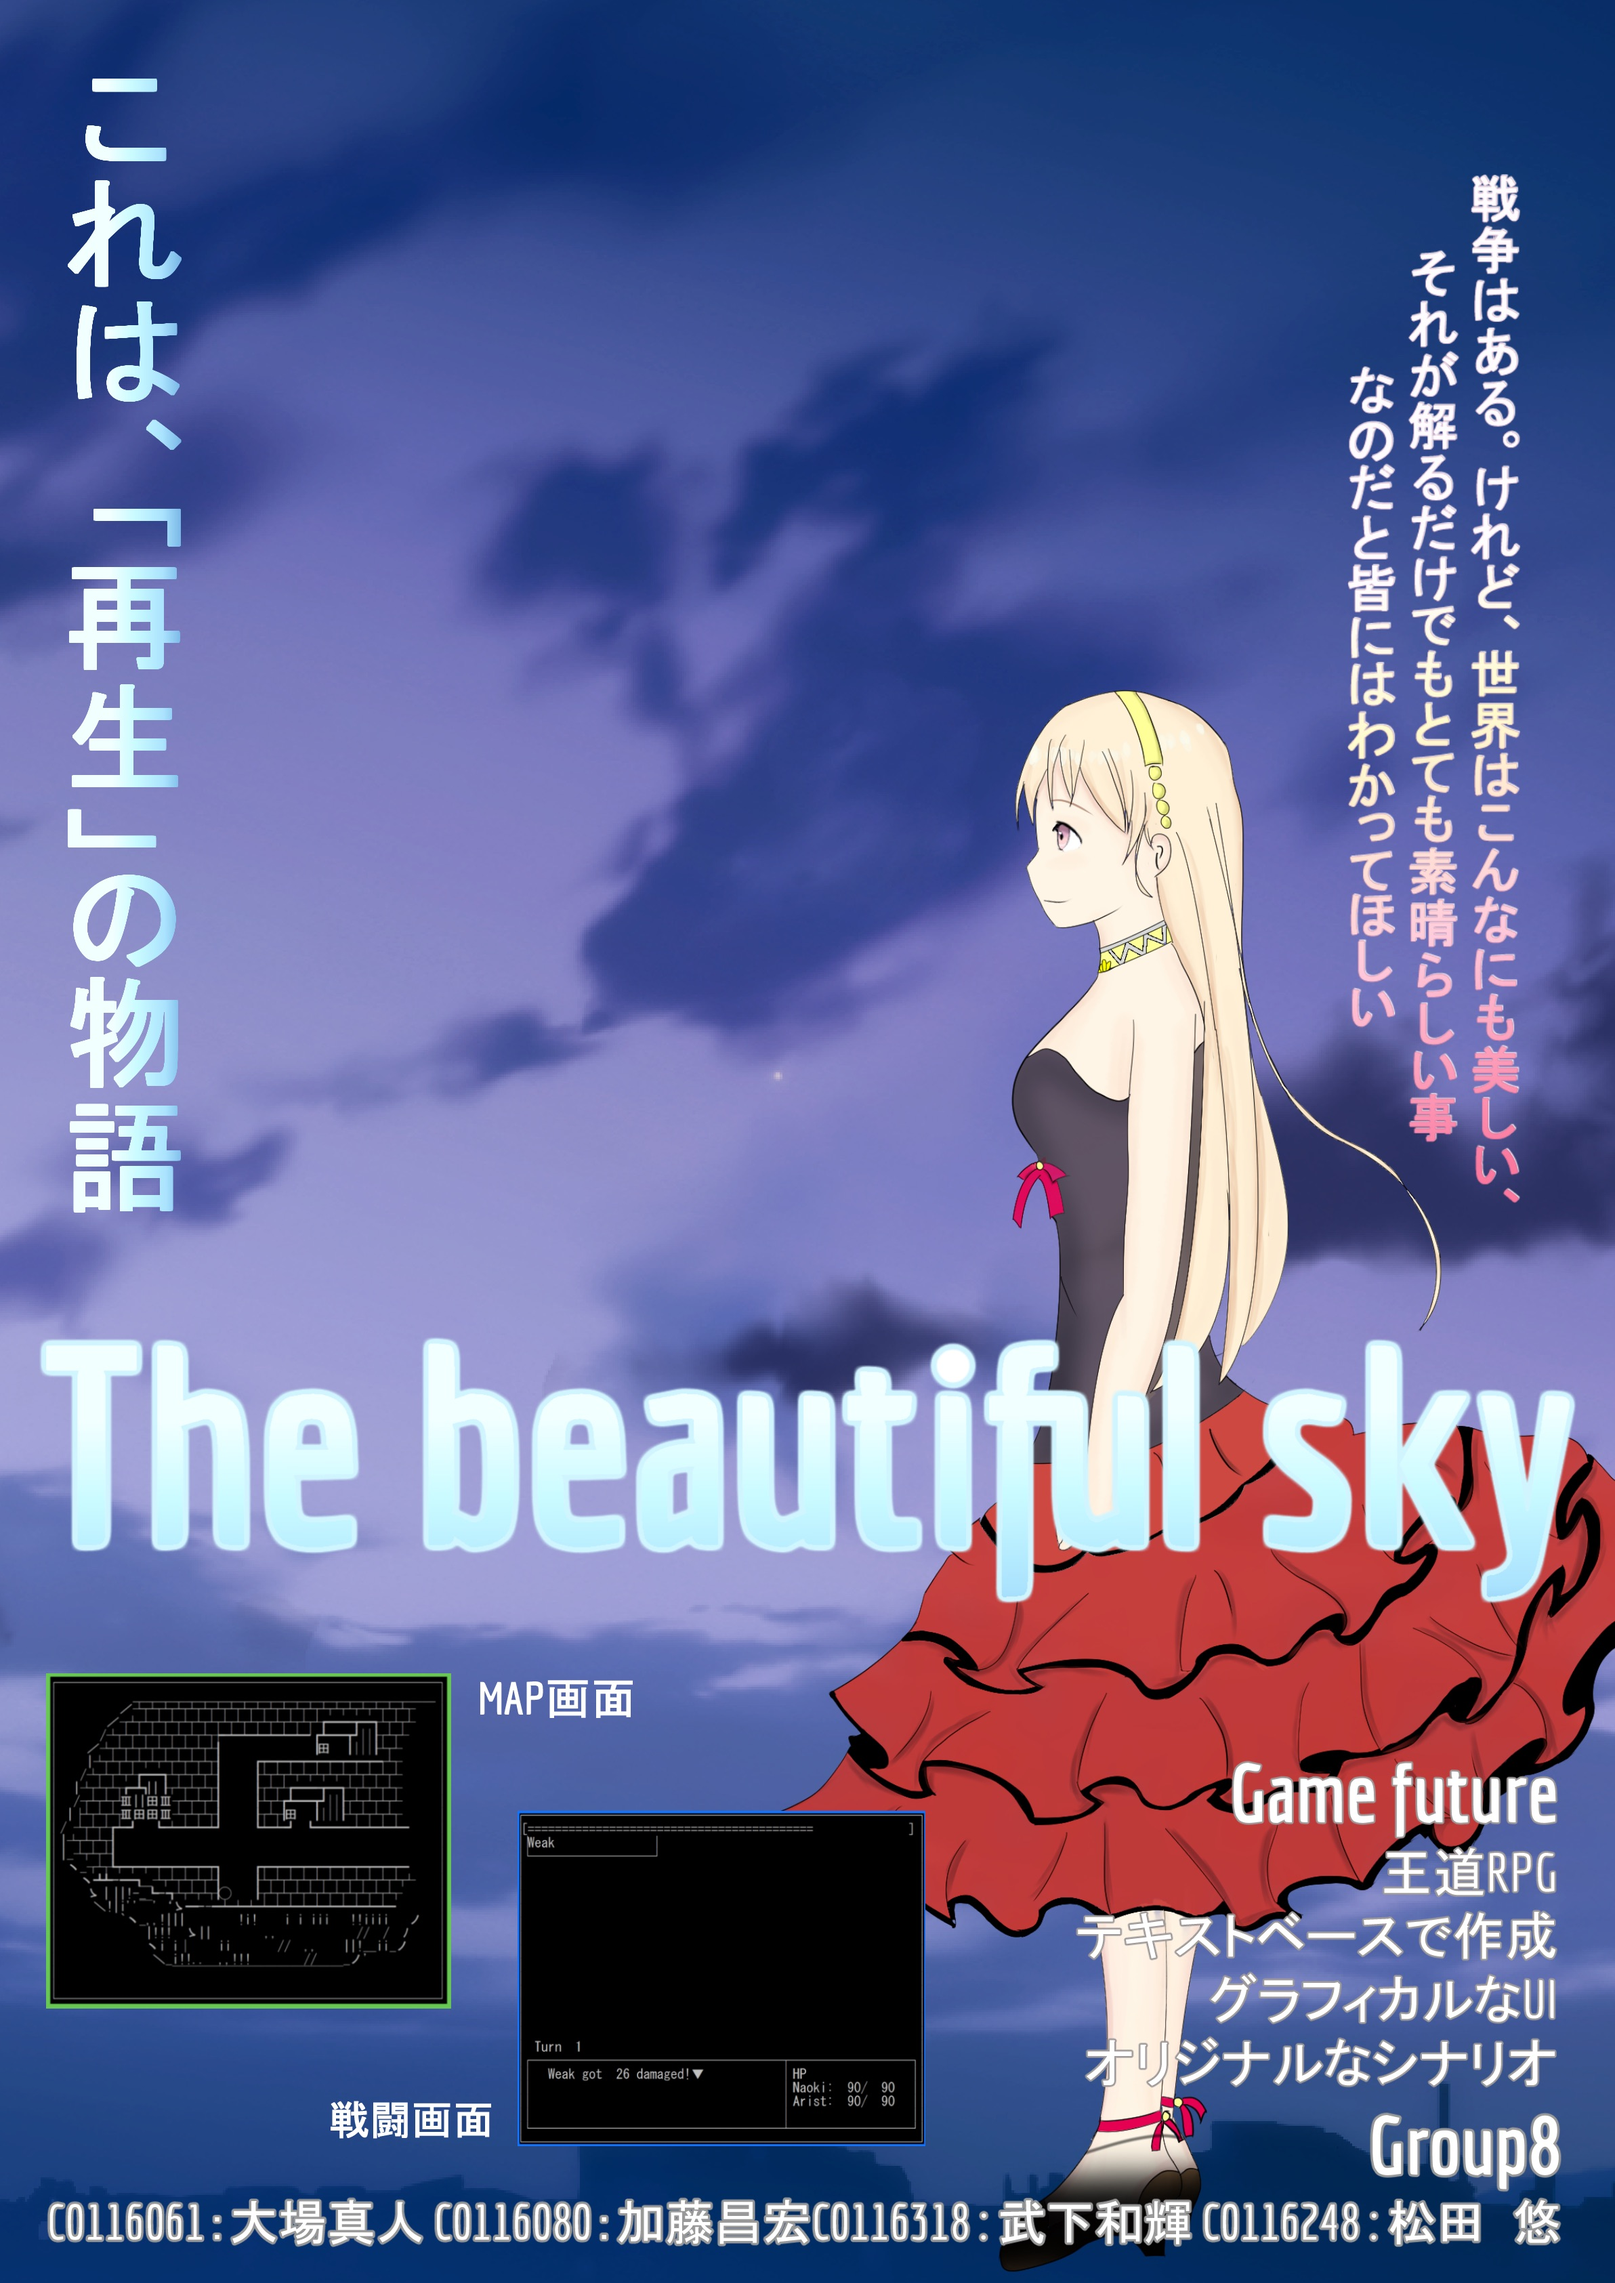
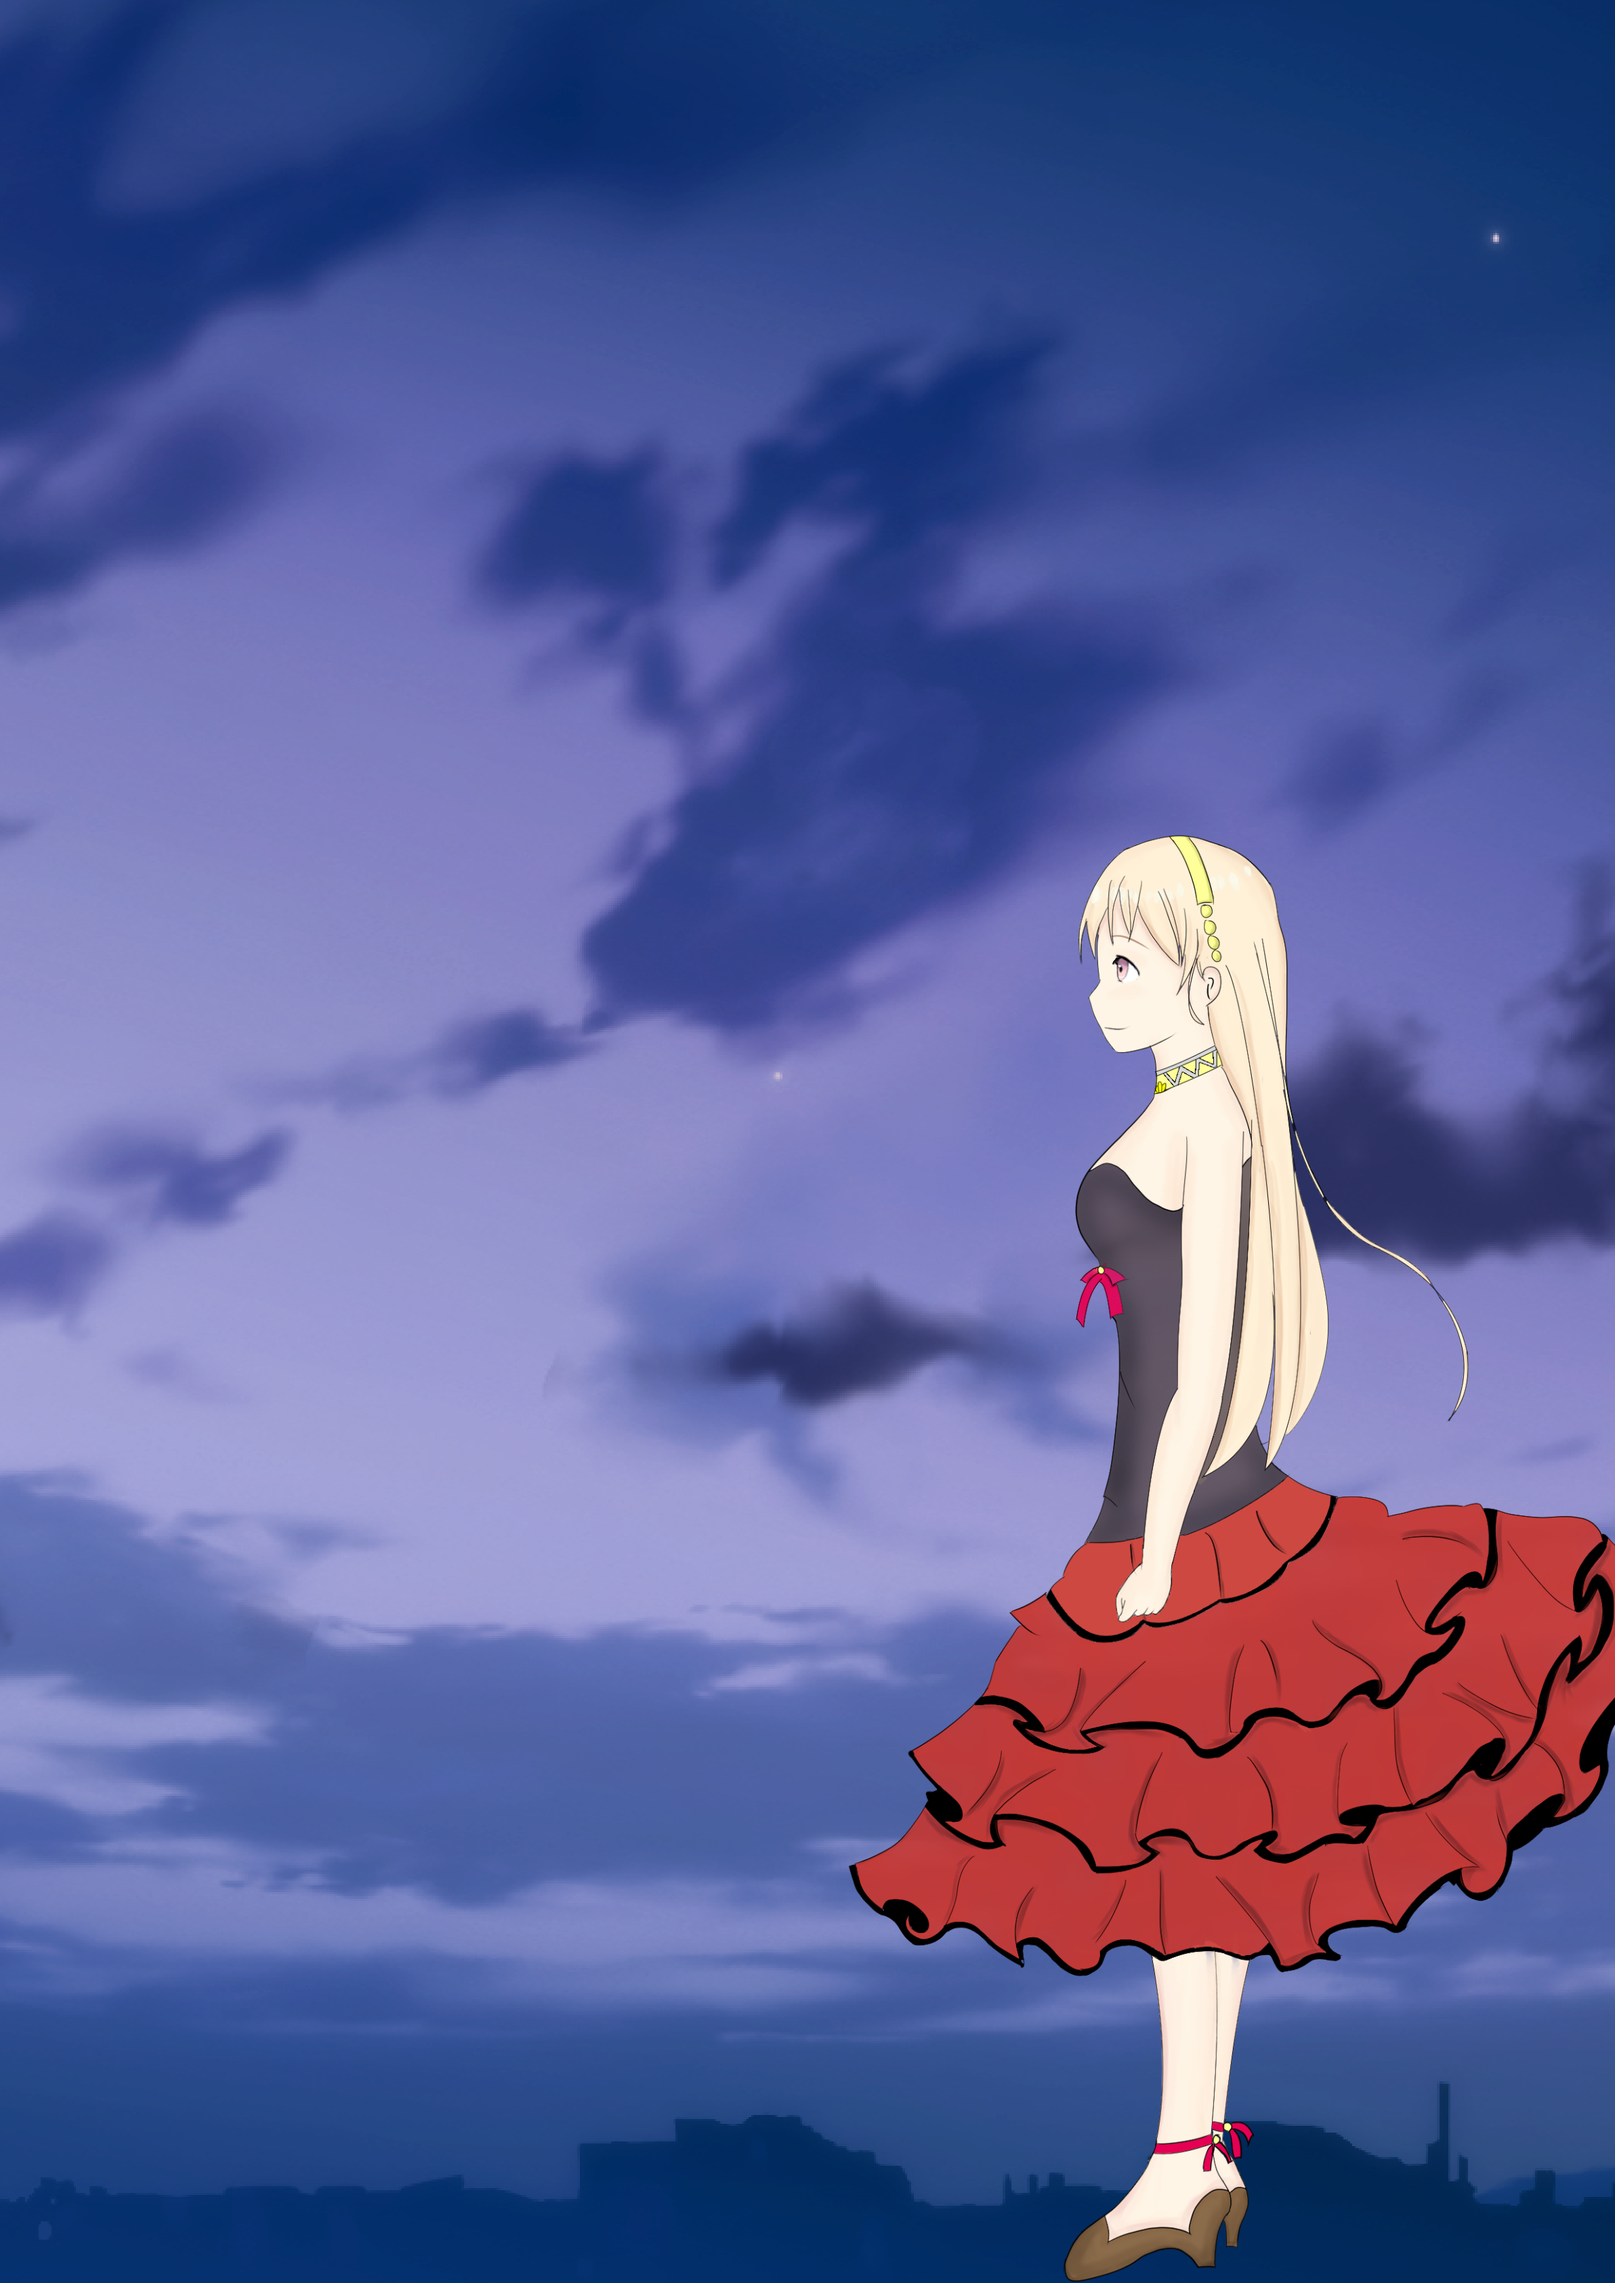
topのポスター画像を差し替え

Changed region(s): [[0.031, 0.2804, 1.0, 1.0], [0.8381, 0.0623, 0.9622, 0.5297], [0.031, 0.0312, 0.1242, 0.5297]]

diff --git a/web/style/style.css b/web/style/style.css
@@ -211,6 +211,7 @@ main h2 {
 
 #explain tr *{
 	font-size: 1.7vw;
+	line-height: 1.6em;
 }
 
 #explain th {
@@ -535,7 +536,7 @@ button {
 	z-index: 5;
 }
 
-#Story,#Character,#Download,#About_us{
+#Story,#Character,#System,#Download,#About_us{
 	padding-top: 90px;
 	margin-top: -100px;
 }
